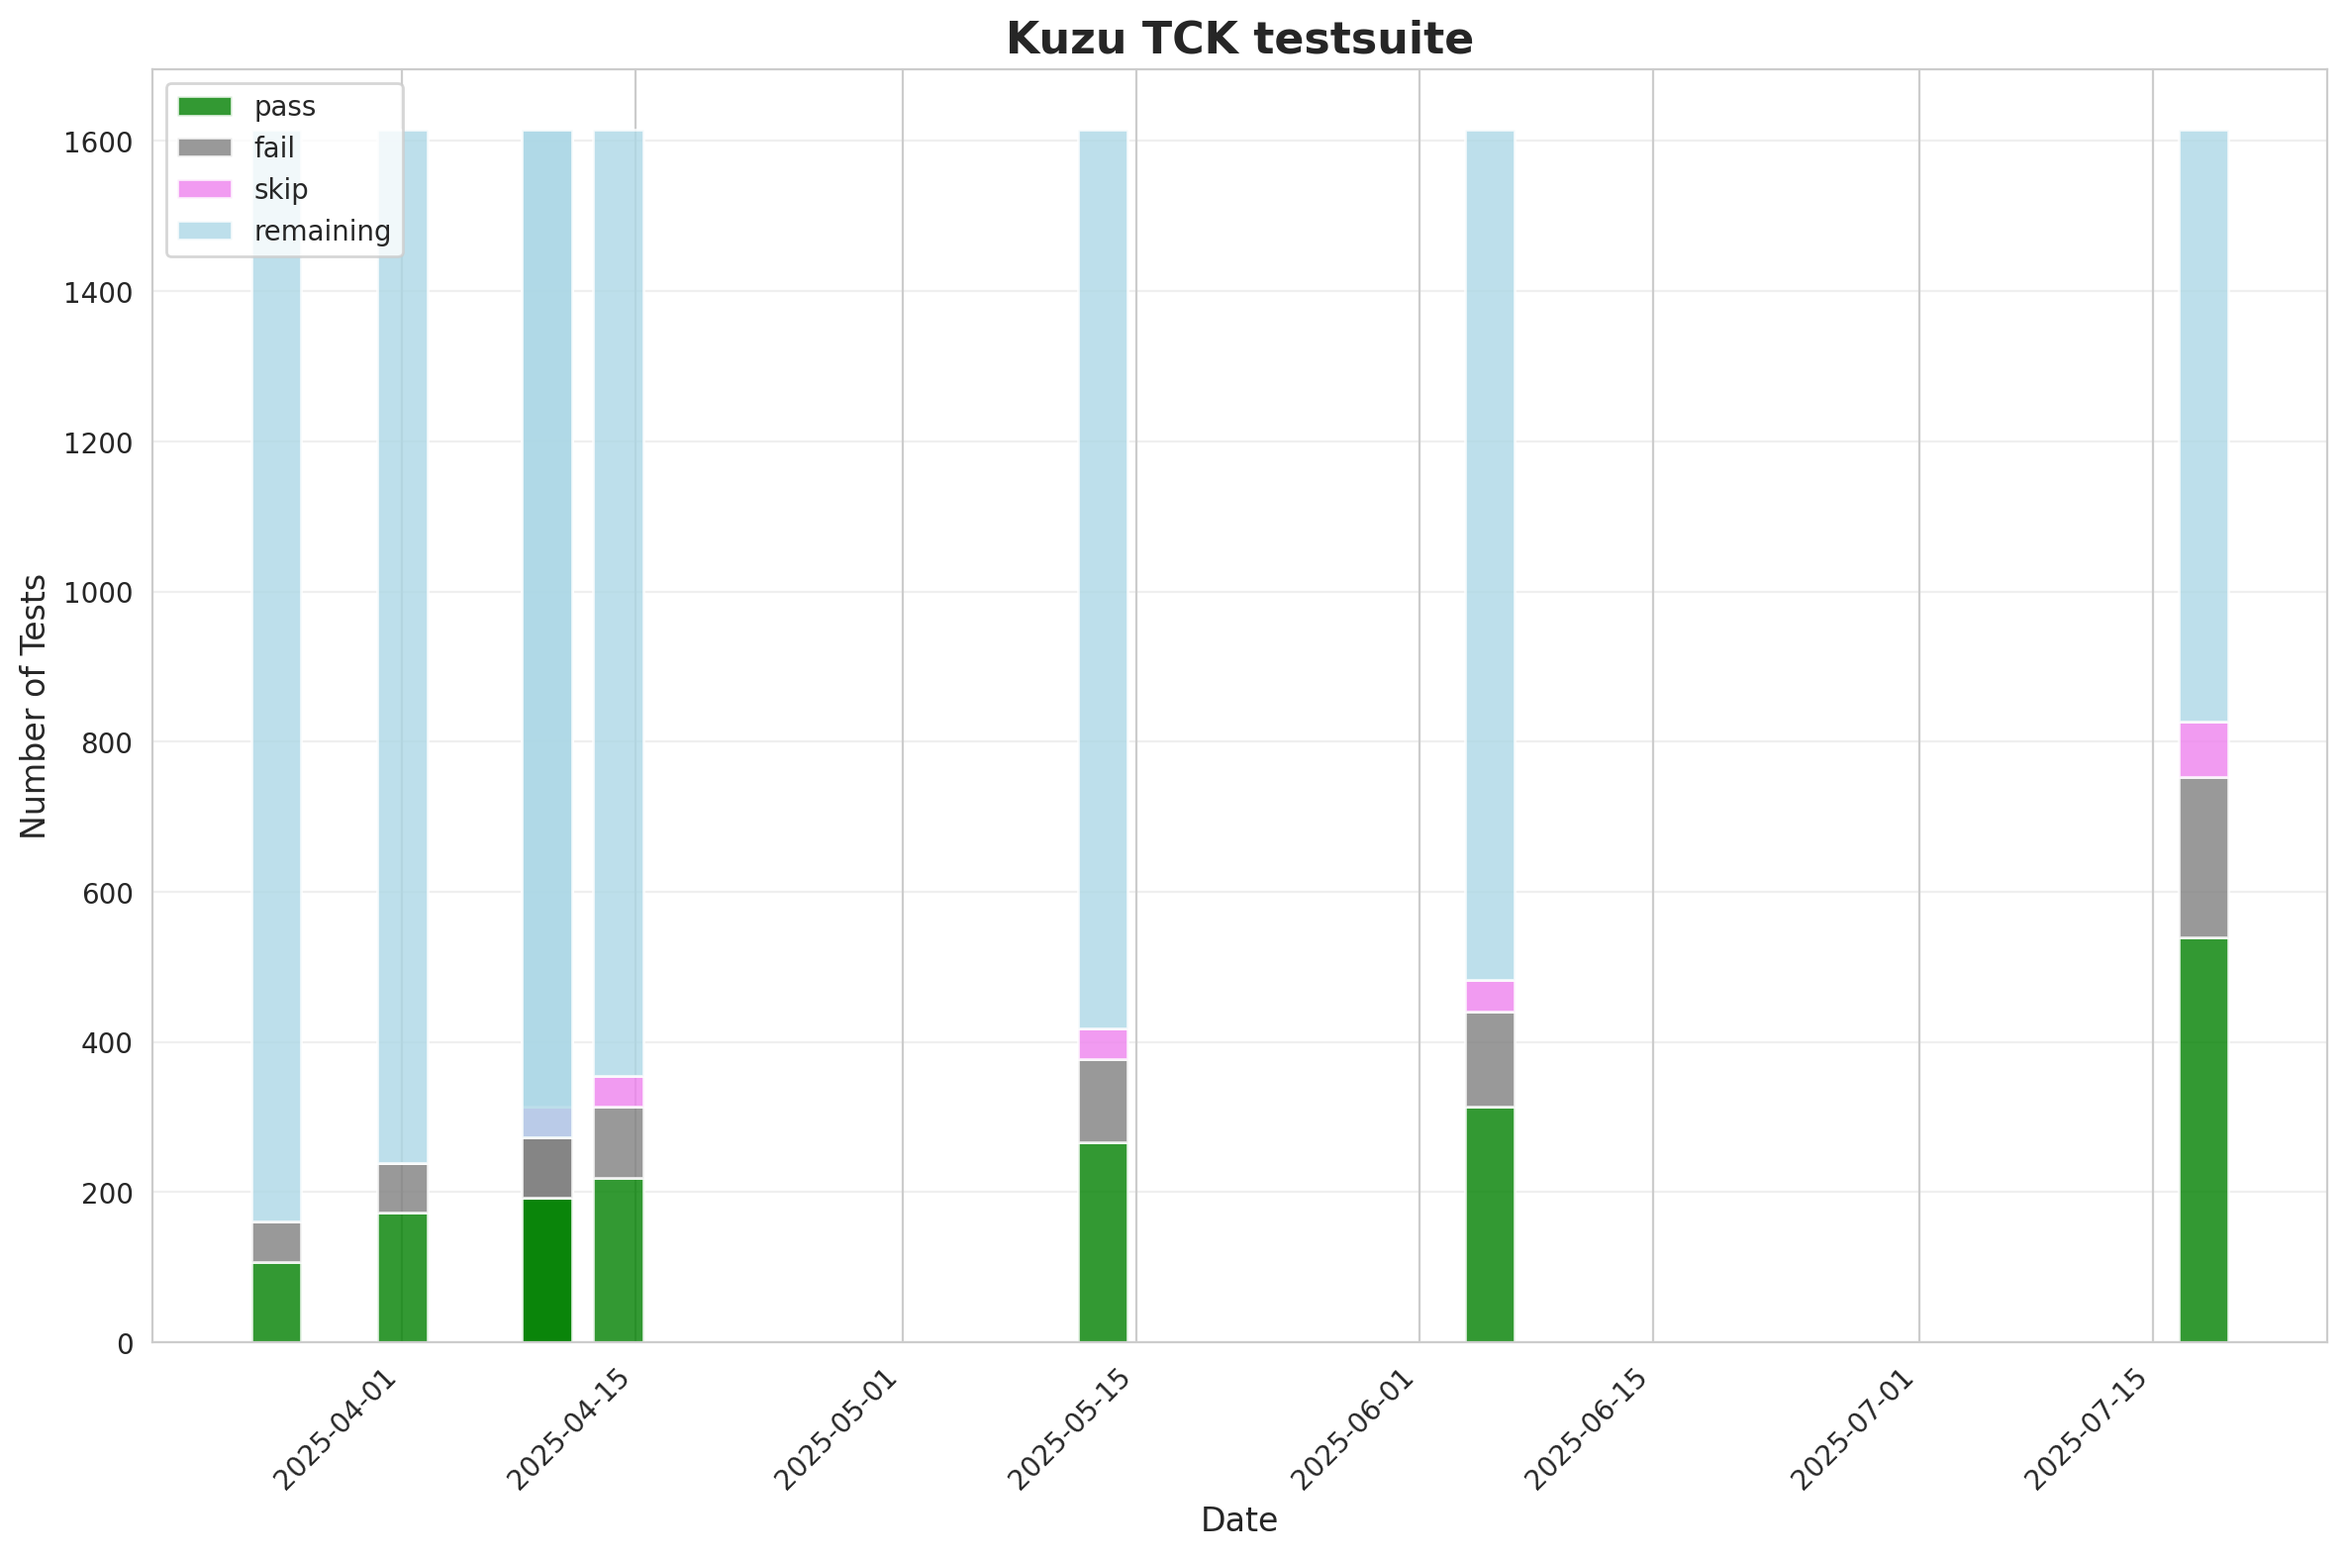
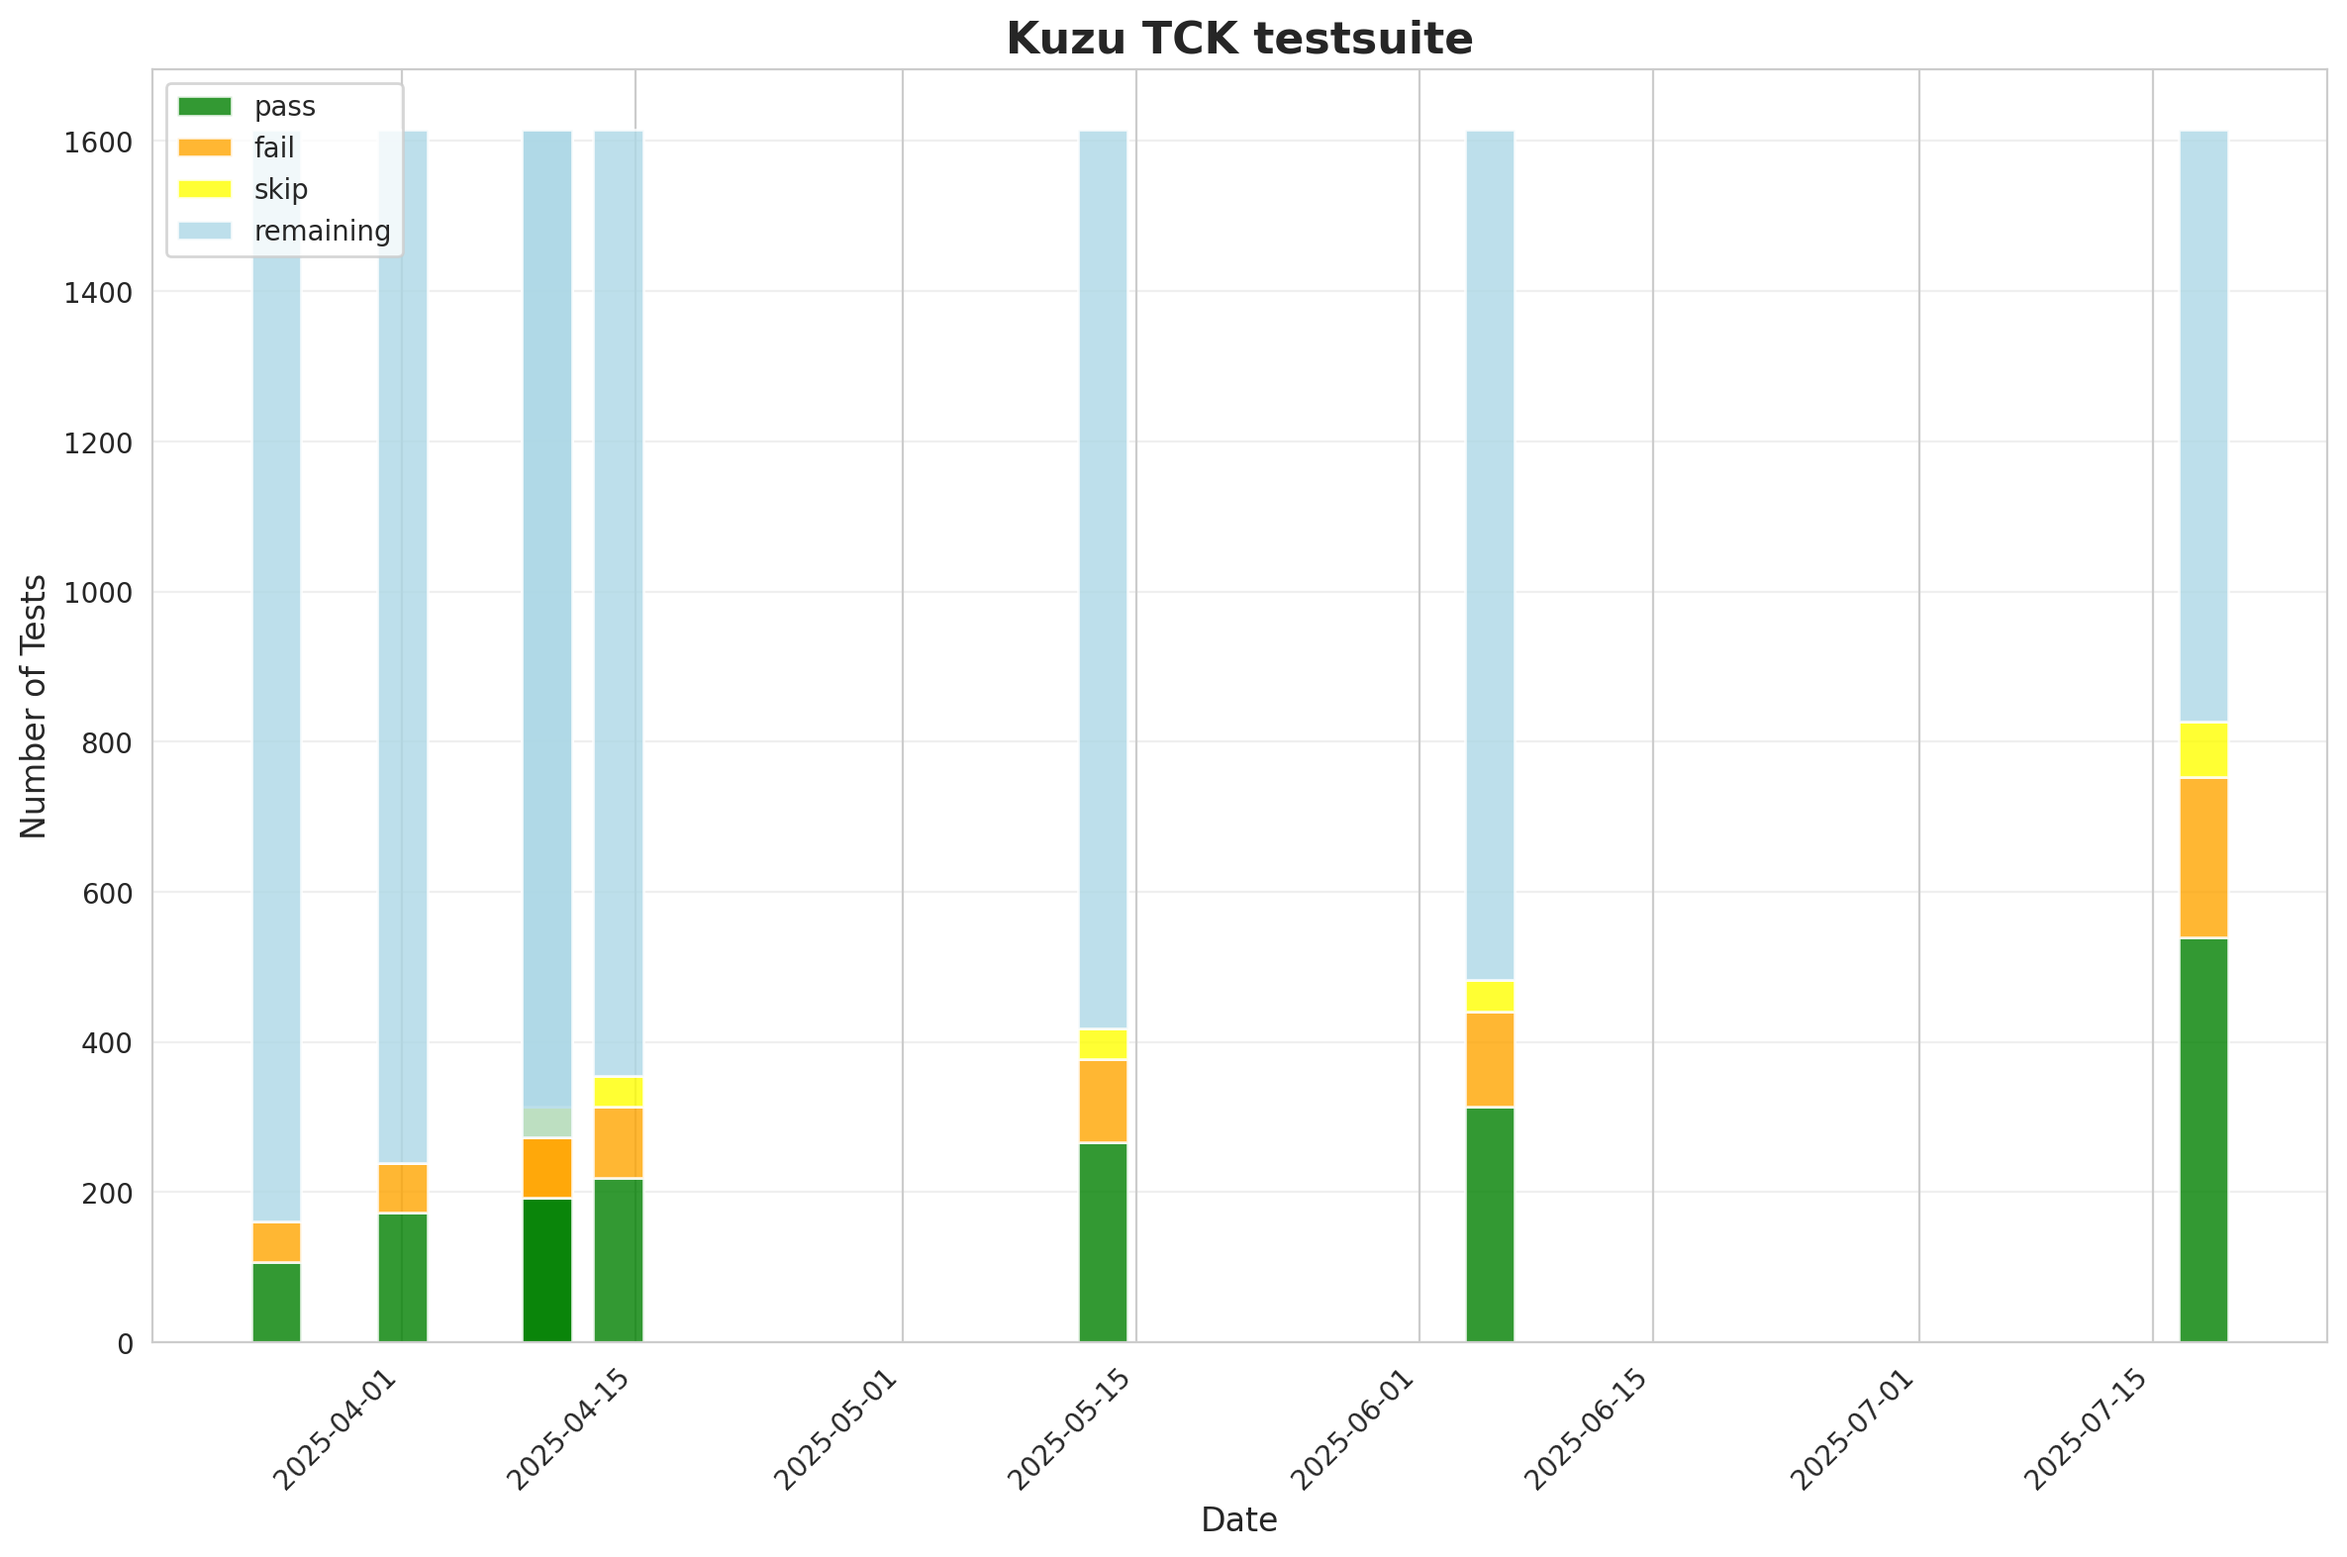
Update metrics

diff --git a/scripts/graph.py b/scripts/graph.py
@@ -42,7 +42,7 @@ df_plot['remaining'] = df_plot['total'] - df_plot['pass'] - df_plot['fail'] - df
 
 # Create stacked bar chart
 bottom = None
-colors = ['green', 'gray', 'violet', 'lightblue']  # pass, fail, skip, remaining
+colors = ['green', 'orange', 'yellow', 'lightblue']  # pass, fail, skip, remaining
 labels = ['pass', 'fail', 'skip', 'remaining']
 
 for i, (col, color, label) in enumerate(zip(['pass', 'fail', 'skip', 'remaining'], colors, labels)):
